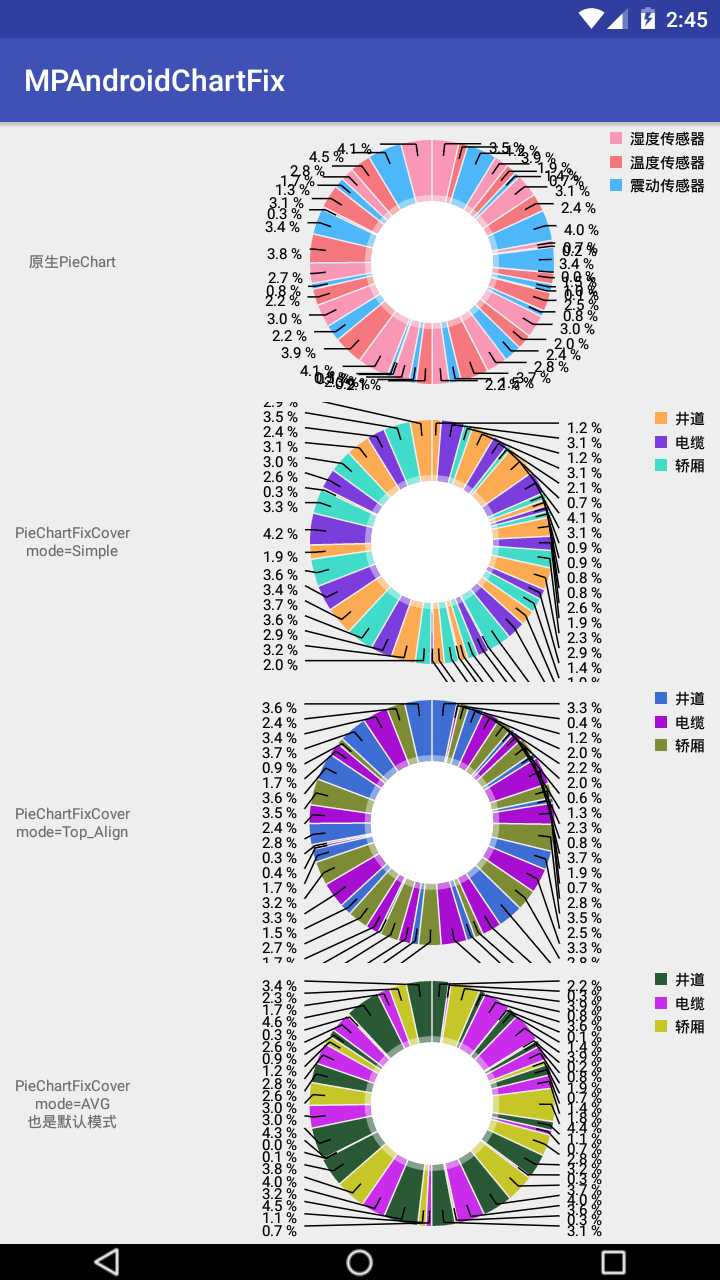
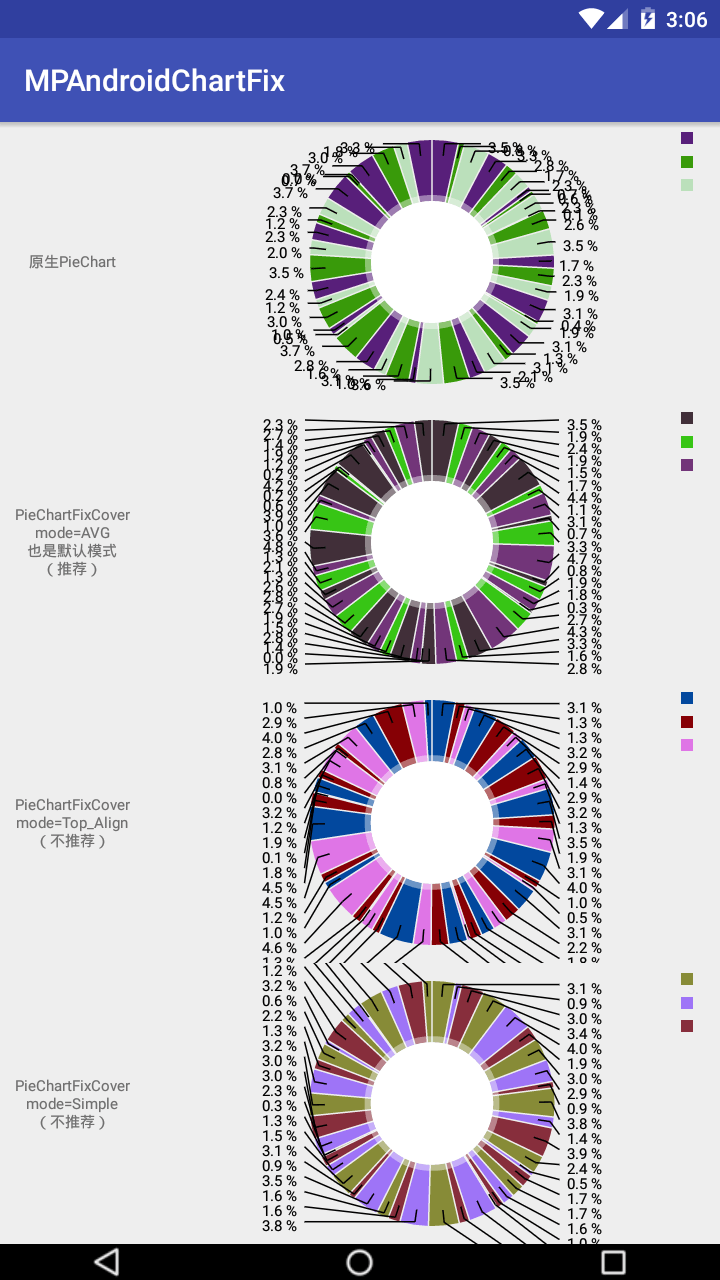
更新使用说明

diff --git a/app/src/main/java/com/teaanddogdog/mpandroidchartfix/MainActivity.java b/app/src/main/java/com/teaanddogdog/mpandroidchartfix/MainActivity.java
@@ -24,8 +24,8 @@ import java.util.Random;
 
 public class MainActivity extends AppCompatActivity {
 
-    String[] lables1 = {"湿度传感器", "温度传感器", "震动传感器","test1"};
-    String[] lables2 = {"井道", "电缆", "轿厢","test1"};
+    String[] lables1 = {" ", " ", " "," "};
+    String[] lables2 = {" ", " ", " "," "};
     private Random mRandom = new Random();
     private PieChart mPieChart1;
     private PieChart mPieChart2;

diff --git a/README.md b/README.md
@@ -22,13 +22,13 @@ maven{ url  "https://dl.bintray.com/teadoglibrary/MPAndroidChartFix" }
 和原生的PieChart用法相同，只是多了几个模式，需在xml中设置，暂没有提供代码中设置的方法：
 mp_chart_out_value_place_mode:有3种模式：
 
-1.app:mp_chart_out_value_place_mode="AVG"，左右等分可用空间，推荐用这个模式，默认也是这个模式
+### 1.app:mp_chart_out_value_place_mode="AVG"，左右等分可用空间，推荐用这个模式，默认也是这个模式
 
-2.app:mp_chart_out_value_place_mode="Top_Align"，左右上对齐，下面不保证，下面可能会被挤出去（不推荐，还存在bug，PieChart转动时部分值显示不了）
+### 2.app:mp_chart_out_value_place_mode="Top_Align"，左右上对齐，下面不保证，下面可能会被挤出去（不推荐，还存在bug，PieChart转动时部分值显示不了）
 
-3.app:mp_chart_out_value_place_mode="Simple"，右侧上对齐，右侧下面可能会被挤出去；左侧下对齐，左侧上面可能会被挤出去（不推荐，还存在bug，PieChart转动时部分值显示不了）
+### 3.app:mp_chart_out_value_place_mode="Simple"，右侧上对齐，右侧下面可能会被挤出去；左侧下对齐，左侧上面可能会被挤出去（不推荐，还存在bug，PieChart转动时部分值显示不了）
 
-使用了自定义属性，注意在根节点内添加xmlns:app="http://schemas.android.com/apk/res-auto"
+使用了自定义属性，注意在根节点内添加：xmlns:app="http://schemas.android.com/apk/res-auto"
 
 ```
 <com.teaanddogdog.mpandroidchartutil.PieChartFixCover
